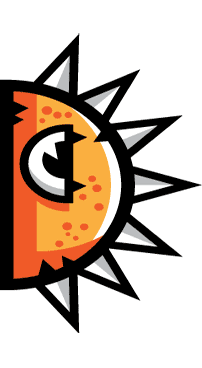
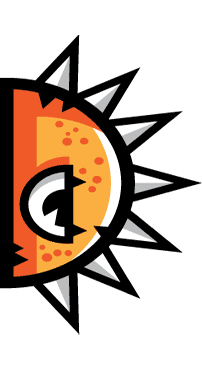
final commit

diff --git a/js/newGame.js b/js/newGame.js
@@ -1,12 +1,52 @@
 var ctx = document.getElementById('my_canvas').getContext('2d');
-
 var spikesTop = new Image();
-spikesTop.src = 'images/spikesTop.png';
+spikesTop.src = 'images/spikesTop1.png';
+var background = new Image();
+background.src = 'images/background.jpg';
+var backgroundHomepage = new Image();
+backgroundHomepage.src = 'images/background1.jpg';
+var bestUnitIndex = 0;
+var bestUnitFitness = 0;
+
+var gameName , gPosx, gPosy, gDashLen, gDashOffset , gSpeed, gCharNo;
+
+
+
+var monster = [];
+for(var i=0;i<10;i++){
+	monster[i] = new Image();
+}
+
+var lastGen = {
+	"Population":[
+	{"score":0,"fitness":0},
+	{"score":0,"fitness":0},
+	{"score":0,"fitness":0},
+	{"score":0,"fitness":0},
+	{"score":0,"fitness":0},
+	{"score":0,"fitness":0},
+	{"score":0,"fitness":0},
+	{"score":0,"fitness":0},
+	{"score":0,"fitness":0},
+	{"score":0,"fitness":0}
+	]
+}
+
+monster[0].src = 'images/Red1.png';
+monster[1].src = 'images/Red2.png';
+monster[2].src = 'images/Red3.png';
+monster[3].src = 'images/Red4.png';
+monster[4].src = 'images/Green1.png';
+monster[5].src = 'images/Red5.png';
+monster[6].src = 'images/Orange1.png';
+monster[7].src = 'images/Red6.png';
+monster[8].src = 'images/Pink1.png';
+monster[9].src = 'images/Red7.png';
 
 var FPS= 50;
 var started = false;
 var spikesBottom = new Image();
-spikesBottom.src = 'images/spikesBottom.png';
+spikesBottom.src = 'images/spikesBottom1.png';
 var GA;
 var maxBots = 10;
 var spikesLeft;
@@ -42,6 +82,50 @@ var button = {
 	enter:{'enter':false},
 	esc:{'esc':false}
 };
+
+
+
+
+function DrawText() {
+
+  	ctx.setLineDash([gDashLen - gDashOffset, gDashOffset - gSpeed]); 
+  	gDashOffset -= gSpeed;                                         
+  	ctx.strokeText(gameName[gCharNo], gPosx, gPosy);                              
+
+  	if (gDashOffset > 0) requestAnimationFrame(DrawText);             
+  	else {
+    	ctx.fillText(gameName[gCharNo], gPosx, gPosy);                           
+    	gDashOffset = gDashLen;                                     
+    	gPosx += ctx.measureText(gameName[gCharNo++]).width + ctx.lineWidth * Math.random();
+    	ctx.setTransform(1, 0, 0, 1, 0, 3 * Math.random());       
+    	ctx.rotate(Math.random() * 0.005);                      
+    	if (gCharNo < gameName.length)
+    		requestAnimationFrame(DrawText);
+  	}
+}
+
+
+function drawAnimatedText(posx, posy){
+
+	gameName = "BOUNCY-MONSTER";
+	gPosx=posx;
+	gPosy=posy;
+	gDashLen = 220;
+	gDashOffset = 220;
+	gSpeed = 10;
+	gCharNo = 0;
+
+	ctx.save();
+	ctx.font = "50px Comic Sans MS, cursive, TSCu_Comic, sans-serif"; 
+	ctx.lineWidth = 5; ctx.lineJoin = "round"; ctx.globalAlpha = 2/3;
+	ctx.strokeStyle = ctx.fillStyle = "green";
+
+	ctx.drawImage(background, 0,0, WIDTH, HEIGHT);
+	DrawText();
+}
+
+//drawAnimatedText(10,200);
+
 
 document.addEventListener('keypress', function(event){
 	switch(event.keyCode){
@@ -112,7 +196,7 @@ ObstacleLeft = function(){
 	this.width = 30;
 	this.height = 57;
 	this.spikeImg = new Image();
-	this.spikeImg.src = 'images/spikeLeft.png';
+	this.spikeImg.src = 'images/spikeMonsterLeft.png';
 	this.animateInterval;
 	this.animateCounter=0;
 	this.x=0;
@@ -271,7 +355,7 @@ ObstacleRight = function(){
 	this.width = 30;
 	this.height = 57;
 	this.spikeImg = new Image();
-	this.spikeImg.src = 'images/spikeRight.png';
+	this.spikeImg.src = 'images/spikeMonsterRight.png';
 	this.animateInterval;
 	this.animateCounter=0;
 	this.x=0;
@@ -476,7 +560,7 @@ horizontalDistance = function(px, direction){
 		return (PLAY_WIDTH - px);
 	}
 }
-Bot = function(x, y, direction){
+Bot = function(botNumber, x, y, direction){
 	this.pause = true;
 	this.x = x;
 	this.y = y;
@@ -490,8 +574,7 @@ Bot = function(x, y, direction){
 	this.fitness_curr = 0;
 	this.score_curr =0;
 	this.direction = direction;
-	this.img = new Image();
-	this.img.src = 'images/bot.png';
+	this.img = monster[botNumber];
 	this.nearestGap = getNearestGap(this.y, this.direction);
 	this.hDistance = horizontalDistance(this.x + this.height/2 , this.direction);
 	this.vDistance = verticalDistanceFromSpike(this.y, this.nearestGap);
@@ -570,16 +653,16 @@ Bot = function(x, y, direction){
 		}
 
 		//horizontal line
-		drawLine(this.x + this.height/2, this.y - this.vDistance, this.x + this.height/2 + sign * this.hDistance, this.y - this.vDistance);
+		//drawLine(this.x + this.height/2, this.y - this.vDistance, this.x + this.height/2 + sign * this.hDistance, this.y - this.vDistance);
 		
 		//vertical line
-		drawLine(this.x + this.height/2, this.y, this.x + this.height/2, this.y - this.vDistance);
+		//drawLine(this.x + this.height/2, this.y, this.x + this.height/2, this.y - this.vDistance);
 
 	}
 }
 
 isCollidiingWithTopBottom = function(bot){
-	if(bot.y < 20 || bot.y + bot.height > HEIGHT - 20){
+	if(bot.y < 28 || bot.y + bot.height > HEIGHT - 28){
 		return true;
 	}
 	return false;
@@ -594,11 +677,82 @@ drawScore = function(x, y, s){
 	ctx.restore();
 }
 
+renderInfo = function(){
+
+	ctx.globalAlpha = 0.1;
+	ctx.fillStyle = "gray";
+	ctx.fillRect(PLAY_WIDTH, 0, WIDTH - PLAY_WIDTH, HEIGHT);
+
+
+	ctx.globalAlpha = 0.2;
+	ctx.fillStyle = "blue";
+    ctx.fillRect(PLAY_WIDTH, 5, WIDTH - PLAY_WIDTH ,48);
+
+    ctx.fillRect(PLAY_WIDTH, PLAY_HEIGHT - 90, WIDTH - PLAY_WIDTH, 65);
+    ctx.globalAlpha = 1.0;
+
+
+
+    ctx.font = "bold 15px Comic Sans MS";
+	ctx.fillStyle = "Black";
+	ctx.textAlign = "center";
+
+    ctx.fillText("GEN "+ (GA.iteration -1), PLAY_WIDTH + 170, 40);
+
+    ctx.fillText("GEN "+ GA.iteration, PLAY_WIDTH + 250, 40);
+
+	ctx.font = "bold 15px Comic Sans MS";
+	ctx.fillStyle = "Blue";
+	ctx.textAlign = "right";
+
+	for(let i=0;i<maxBots; i++){
+		drawLine(PLAY_WIDTH, 60 + (i+1) * 50 - 12, WIDTH,  60 + (i+1) * 50 - 12);
+		ctx.drawImage(monster[i], PLAY_WIDTH + 15, 60 + i * 50, 30, 30);
+		ctx.fillText("Fitness:", PLAY_WIDTH + 120,  70 + i * 50);
+		ctx.fillText("Score:", PLAY_WIDTH + 120, 92 + i * 50);
+	}
+
+	ctx.font = "bold 14px Comic Sans MS";
+	ctx.fillStyle = "Green";
+
+	for(let i=0;i<maxBots;i++){
+		ctx.fillText(lastGen.Population[i].fitness, PLAY_WIDTH + 190,  70 + i * 50);
+		ctx.fillText(lastGen.Population[i].score, PLAY_WIDTH + 190,  92 + i * 50);
+	}
+
+	ctx.font = "bold 14px Comic Sans MS";
+	ctx.fillStyle = "Red";
+
+	for(let i=0;i<maxBots;i++){
+		ctx.fillText(bot[i].fitness_curr, PLAY_WIDTH + 270,  70 + i * 50);
+		ctx.fillText(bot[i].score_curr, PLAY_WIDTH + 270,  92 + i * 50);
+	}
+
+	ctx.font = "bold 15px Comic Sans MS";
+	ctx.fillStyle = "Black";
+	ctx.textAlign = "left";
+
+	ctx.fillText("Best Unit was born in Generation " + GA.best_population, PLAY_WIDTH + 15, PLAY_HEIGHT - 72);
+	ctx.fillText("Fitness :" + GA.best_fitness, PLAY_WIDTH + 15, PLAY_HEIGHT - 52);
+	ctx.fillText("Score :" + GA.best_score, PLAY_WIDTH + 15, PLAY_HEIGHT - 32);
+	ctx.drawImage(monster[bestUnitIndex], PLAY_WIDTH + 150, PLAY_HEIGHT - 65, 35, 35);
+
+}
+
 render = function(){
 
 	ctx.save();
-	// clear canvas
+
+
 	ctx.clearRect(0, 0, WIDTH, PLAY_HEIGHT);
+
+	//draw background;
+	ctx.globalAlpha = 0.8;
+	ctx.drawImage(background, 0,0, PLAY_WIDTH, PLAY_HEIGHT);
+	ctx.globalAlpha = 1.0;
+
+
+	// clear canvas
 
 	// draw seperation line
 	drawLine(PLAY_WIDTH, 0, PLAY_WIDTH, HEIGHT, 3);
@@ -614,14 +768,14 @@ render = function(){
 	spikesLeft.render();
 	spikesRight.render();
 
-	ctx.drawImage(spikesTop, 0, 0, PLAY_WIDTH, 20);
-	ctx.drawImage(spikesBottom, 0, PLAY_HEIGHT - 20, PLAY_WIDTH, 20);
+	ctx.drawImage(spikesTop, 0, 0, PLAY_WIDTH, 30);
+	ctx.drawImage(spikesBottom, 0, PLAY_HEIGHT - 30, PLAY_WIDTH, 30);
 
 	ctx.fillStyle = 'rgba(0,0,0,1)';
 
 	ctx.clearRect(PLAY_WIDTH + 1, 0, WIDTH, HEIGHT);
 
-
+	renderInfo();
 	//ctx.fillRect(0, 0, PLAY_WIDTH, 20);
 	//ctx.fillRect(0, PLAY_HEIGHT-20, PLAY_WIDTH, 20);
 	//drawScore(10, 17,"Score: "+ score);
@@ -695,12 +849,22 @@ updateVariables = function(){
 	}
 
 	if(allDead){
+
+		bot = [];
+		for(i=0;i<maxBots;i++){
+    		bot[i] = new Bot(i, PLAY_WIDTH/2-10, PLAY_HEIGHT/2 - Math.floor(maxBots/2) * 50 + i*50 + 50, 'left');
+    		lastGen.Population[i].fitness = GA.Population[i].fitness;
+    		lastGen.Population[i].score = GA.Population[i].score;
+    		if(bestUnitFitness < GA.Population[i].fitness){
+    			bestUnitFitness = GA.Population[i].fitness;
+    			bestUnitIndex = i;
+    		}
+    	}
+
 		GA.evolvePopulation();
 		GA.iteration++;
 		document.getElementById("generation").innerHTML = "Generation : " + GA.iteration;
-		if(GA.iteration % 200==0 && level < 8){
-			level += 1;
-		}
+		
 		//score = 0;
 		/*var elem = document.getElementById('playbutton');
 	    if(elem != null){
@@ -709,10 +873,7 @@ updateVariables = function(){
 	    }
 
 		clearInterval(animateInterval);*/
-		bot = [];
-		for(i=0;i<maxBots;i++){
-    		bot[i] = new Bot(PLAY_WIDTH/2-10, PLAY_HEIGHT/2 - Math.floor(maxBots/2) * 50 + i*50 + 50, 'left');
-    	}
+
 
 	}
 }
@@ -742,8 +903,8 @@ mainPage = function(){
     	//elem.parentNode.removeChild(elem);
     	elem.style.display = 'none';
     }
-
-
+    ctx.restore();
+    
 	GA = new GeneticAlgorithm(10, 4);
 	GA.reset();
 	GA.createPopulation();
@@ -755,10 +916,16 @@ mainPage = function(){
 
     //create bots
     for(i=0;i<maxBots;i++){
-    	bot[i] = new Bot(PLAY_WIDTH/2-10, PLAY_HEIGHT/2 - Math.floor(maxBots/2) * 50 + i*50 + 50, 'left');
+    	bot[i] = new Bot(i, PLAY_WIDTH/2-10, PLAY_HEIGHT/2 - Math.floor(maxBots/2) * 50 + i*50 + 50, 'left');
     }
 
 	animateInterval = setInterval(update,1000/FPS);
 
 }
-// mainPage();
+drawHomePage = function(){
+	//ctx.drawImage(backgroundHomepage, 0, 0, WIDTH, HEIGHT);
+	ctx.drawImage(background, 0,0, WIDTH, HEIGHT);
+	//drawAnimatedText(50, 200);
+
+}
+drawHomePage();

diff --git a/index.html b/index.html
@@ -9,7 +9,7 @@
 <div id="container">
 
 	<div id="containerCenter">
-		<canvas  id = 'my_canvas' width="650" height="650" style ="border:4px solid #000000">
+		<canvas  id = 'my_canvas' width="750" height="650" style ="border:4px solid #000000">
 		</canvas>
 	</div>
 </div>
